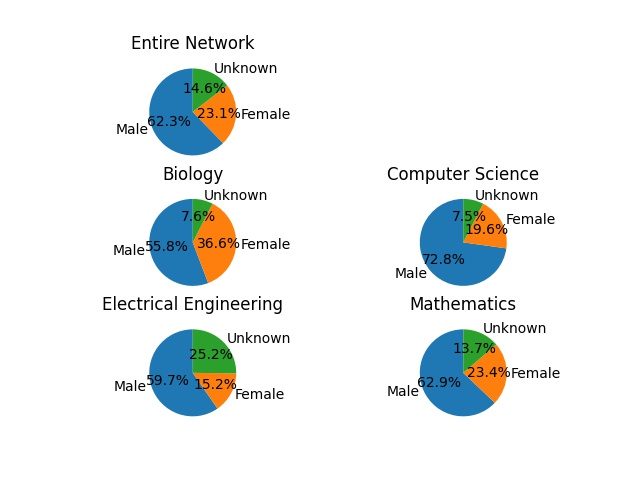
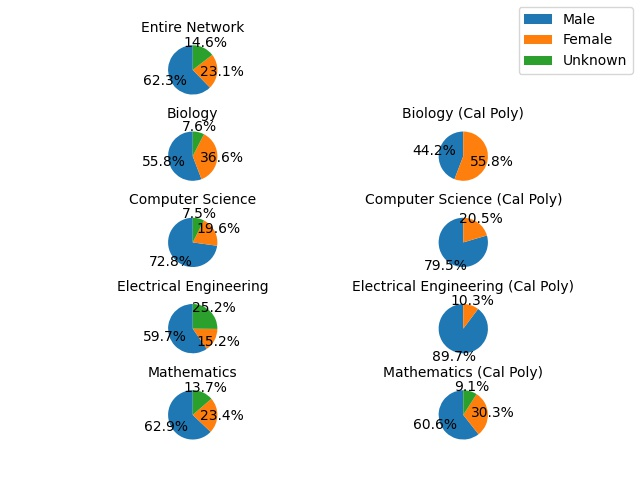
Add cal poly only measurements to gender pie charts

Changed region(s): [[0.1562, 0.0312, 0.4688, 0.9375], [0.5625, 0.2188, 0.9062, 0.9375], [0.8125, 0.0, 1.0, 0.1562]]

diff --git a/gender_pie_charts.py b/gender_pie_charts.py
@@ -7,22 +7,43 @@ cs_sizes = [1312, 354, 136]
 ee_sizes = [1424, 362, 601]
 math_sizes = [285, 106, 62]
 
-fig, ax = plt.subplots(3, 2)
-ax[0][0].pie(entire_sizes, labels=labels, autopct='%1.1f%%', startangle=90)
-ax[0][0].set_title('Entire Network')
+fig, ax = plt.subplots(5, 2)
+plt.subplots_adjust(hspace=2.5)
 
-ax[1][0].pie(biology_sizes, labels=labels, autopct='%1.1f%%', startangle=90)
-ax[1][0].set_title('Biology')
+ax[0][0].pie(entire_sizes, radius=2.5, pctdistance=1.2, startangle=90, autopct='%1.1f%%')
+ax[0][0].set_title('Entire Network', fontsize=10, y=1.7)
 
-ax[1][1].pie(cs_sizes, labels=labels, autopct='%1.1f%%', startangle=90)
-ax[1][1].set_title('Computer Science')
+ax[1][0].pie(biology_sizes, radius=2.5, pctdistance=1.2, autopct='%1.1f%%', startangle=90)
+ax[1][0].set_title('Biology', fontsize=10, y=1.7)
 
-ax[2][0].pie(ee_sizes, labels=labels, autopct='%1.1f%%', startangle=90)
-ax[2][0].set_title('Electrical Engineering')
+ax[2][0].pie(cs_sizes, radius=2.5, pctdistance=1.2, autopct='%1.1f%%', startangle=90)
+ax[2][0].set_title('Computer Science', fontsize=10, y=1.7)
 
-ax[2][1].pie(math_sizes, labels=labels, autopct='%1.1f%%', startangle=90)
-ax[2][1].set_title("Mathematics")
+ax[3][0].pie(ee_sizes, radius=2.5, pctdistance=1.2, autopct='%1.1f%%', startangle=90)
+ax[3][0].set_title('Electrical Engineering', fontsize=10, y=1.7)
+
+ax[4][0].pie(math_sizes, radius=2.5, pctdistance=1.2, autopct='%1.1f%%', startangle=90)
+ax[4][0].set_title("Mathematics", fontsize=10, y=1.7)
 
 ax[0][1].axis('off')
+
+cp_bio = [19, 24]
+cp_cs = [35, 9]
+cp_ee = [35, 4]
+cp_math = [20, 10, 3]
+
+ax[1][1].pie(cp_bio, radius=2.5, pctdistance=1.2, autopct='%1.1f%%', startangle=90)
+ax[1][1].set_title('Biology (Cal Poly)', fontsize=10, y=1.7)
+
+ax[2][1].pie(cp_cs, radius=2.5, pctdistance=1.2, autopct='%1.1f%%', startangle=90)
+ax[2][1].set_title('Computer Science (Cal Poly)', fontsize=10, y=1.7)
+
+ax[3][1].pie(cp_ee, radius=2.5, pctdistance=1.2, autopct='%1.1f%%', startangle=90)
+ax[3][1].set_title('Electrical Engineering (Cal Poly)', fontsize=10, y=1.7)
+
+ax[4][1].pie(cp_math, radius=2.5, pctdistance=1.2, autopct='%1.1f%%', startangle=90)
+ax[4][1].set_title("Mathematics (Cal Poly)", fontsize=10, y=1.7)
+
+fig.legend(labels)
 
 plt.savefig('./data/gender_pie_charts.jpg')
